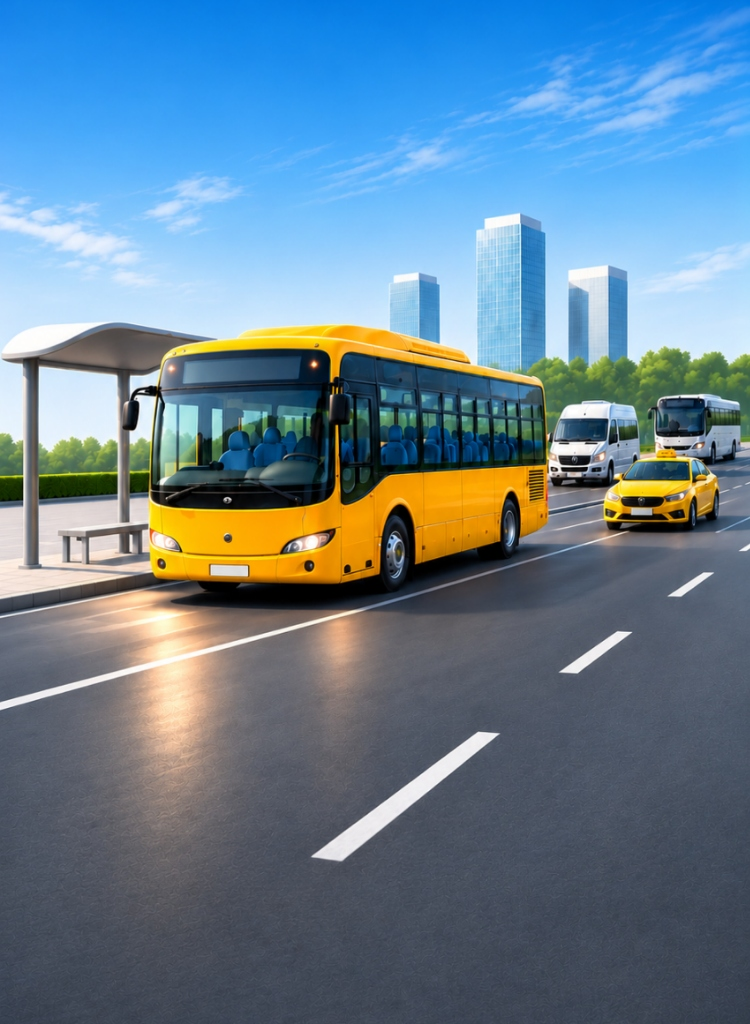
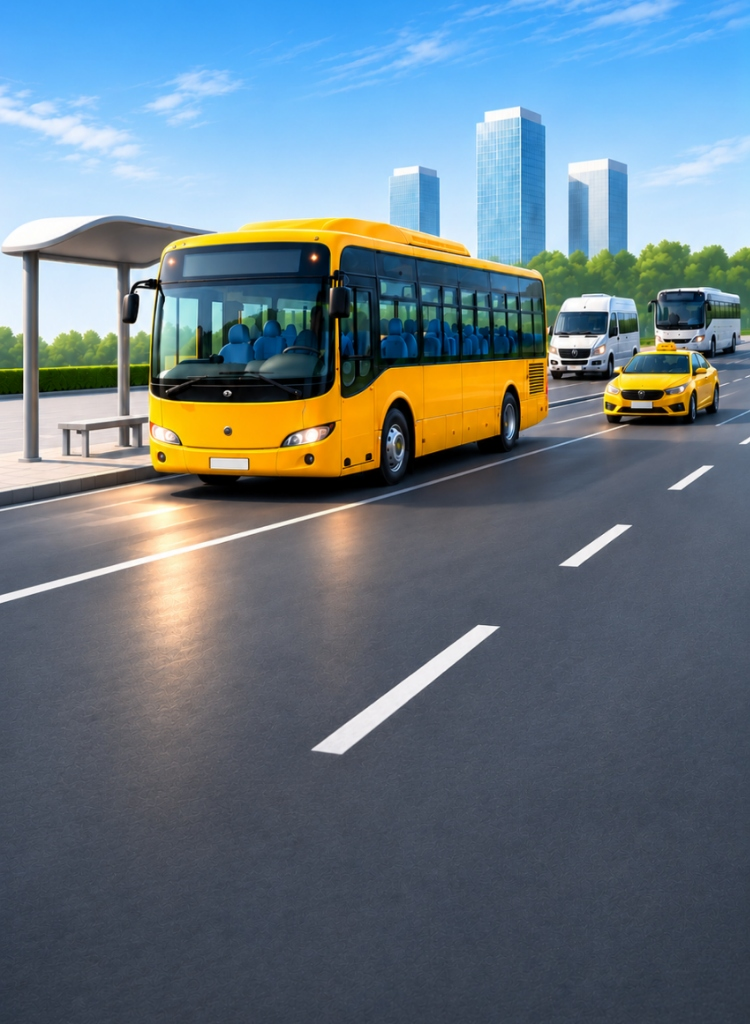
feat: replace Commute card background image with updated clean road commute scene

diff --git a/index.html b/index.html
@@ -57,7 +57,7 @@
   <!-- 1. Header માં (CSS) - Ask-Uffizio AI Chatbot -->
   <link rel="stylesheet" href="https://hineshvarma-uffizio.github.io/Ask-Uffizio-Chatbot/uffizio-ai-chat.css">
   <!-- Custom Stylesheet with cache-buster -->
-  <link rel="stylesheet" href="styles.css?v=20261104-btn-txt16">
+  <link rel="stylesheet" href="styles.css?v=20261104-commute-v2">
 </head>
 <body class="bg-slate-50 dark:bg-slate-950 text-slate-800 dark:text-slate-100 antialiased font-sans min-h-screen flex flex-col transition-colors duration-200">
 
@@ -1664,7 +1664,7 @@
           <!-- ==================================================== -->
           <!-- CARD 2: UFFIZIO COMMUTE (HIGH-RES 837x1024)          -->
           <!-- ==================================================== -->
-          <div class="card-box rounded-3xl relative group min-h-[540px] sm:min-h-[580px] flex flex-col justify-end bg-cover overflow-hidden" style="background-image: url('assets/card-commute.jpg?v=20261104-commute-clean'); background-position: center top;">
+          <div class="card-box rounded-3xl relative group min-h-[540px] sm:min-h-[580px] flex flex-col justify-end bg-cover overflow-hidden" style="background-image: url('assets/card-commute.jpg?v=20261104-commute-v2'); background-position: center top;">
             
             <!-- Bottom Gradient Overlay with Title, Description & CTA -->
             <div class="relative z-20 pt-16 sm:pt-20 pb-7 px-6 sm:px-8 rounded-b-3xl bg-gradient-to-t from-[#040814] via-[#040814]/90 to-transparent">
@@ -1978,7 +1978,7 @@
   </a>
 
   <!-- Custom Logic & Event Listeners -->
-  <script src="script.js?v=20261104-btn-txt16"></script>
+  <script src="script.js?v=20261104-commute-v2"></script>
 
   <!-- 2. Footer માં (JS) - Ask-Uffizio AI Chatbot -->
   <script>
